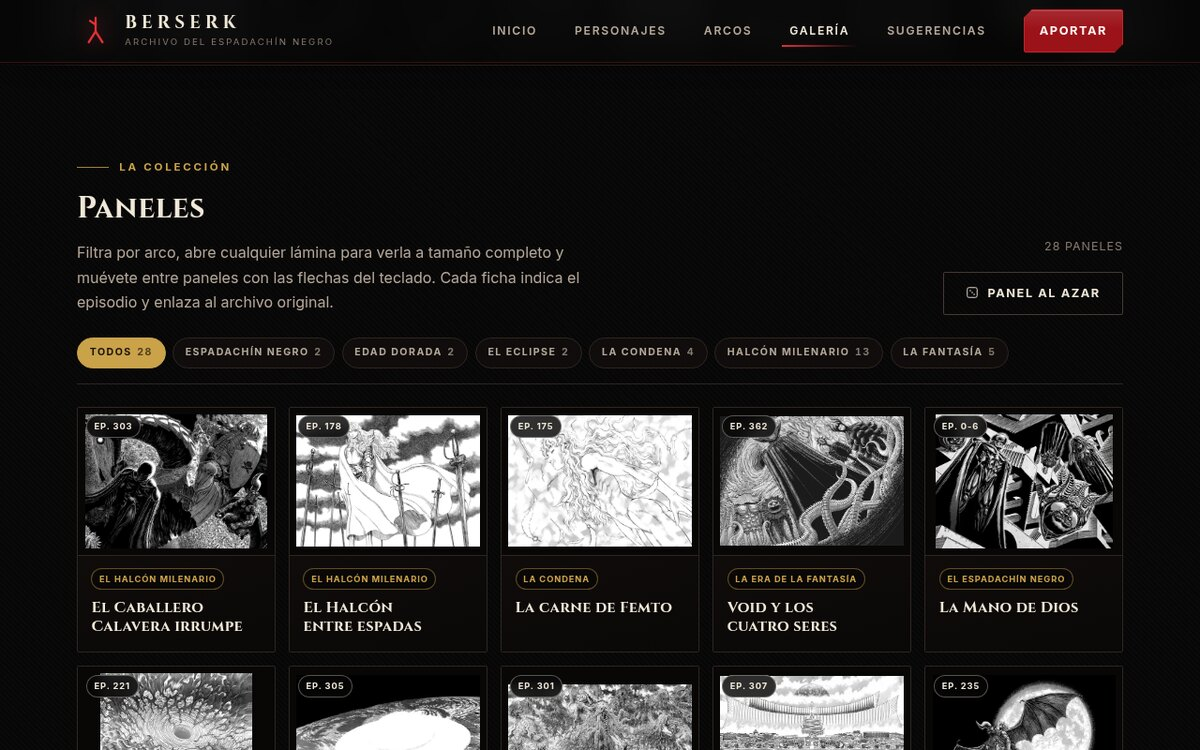
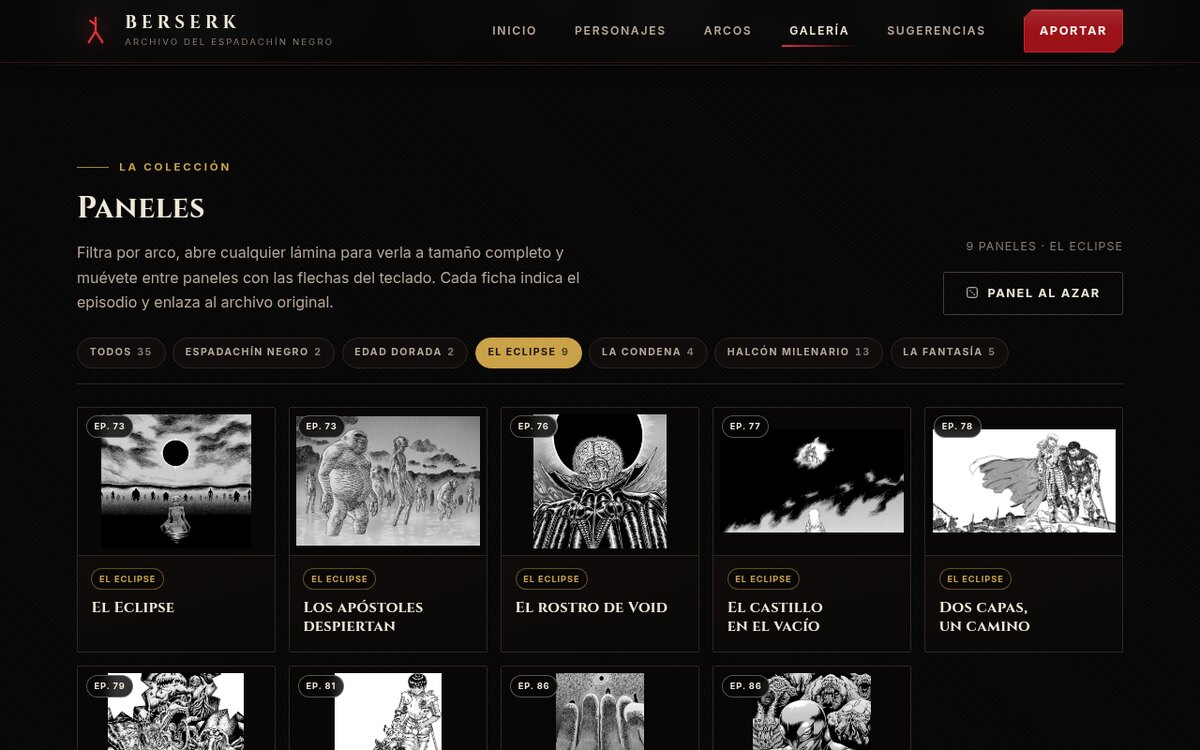
Añadir siete paneles del Eclipse a la galería
- Suma planos generales de los episodios 73, 76, 77, 79, 81 y 86: los
  apóstoles, el rostro de Void, el castillo en el vacío, el festín, la
  muerte de Judeau, la Mano de Dios al completo y Femto
- Agrupa los nueve paneles del arco en orden cronológico
- Genera las versiones WebP de 1100 px y las miniaturas de 520 px
- Actualiza contadores, reparto por arco y capturas del README (28 → 35)

diff --git a/assets/js/paneles.js b/assets/js/paneles.js
@@ -252,6 +252,102 @@ window.PANELES = {
       fuente: "https://berserk.fandom.com/wiki/File:Manga_E73_Eclipse_Invoked.png"
     },
     {
+      id: "apostoles-reunion",
+      titulo: "Los apóstoles despiertan",
+      episodio: "73",
+      arco: "eclipse",
+      archivo: "assets/img/paneles/apostoles-reunion",
+      ancho: 1032,
+      alto: 728,
+      alt: "Una multitud de apóstoles desnudos y deformes avanza entre la niebla sobre un suelo inundado.",
+      descripcion: "Los apóstoles convocados por el Eclipse emergen de la niebla. Miura da a cada cuerpo un tramado distinto —piel, pliegues, costillas— y deja que el horizonte se pierda en gris: no hay un protagonista, solo la masa.",
+      fuente: "https://berserk.fandom.com/wiki/File:Manga_E73_Apostles.png"
+    },
+    {
+      id: "void-rostro",
+      titulo: "El rostro de Void",
+      episodio: "76",
+      arco: "eclipse",
+      archivo: "assets/img/paneles/void-rostro",
+      ancho: 700,
+      alto: 700,
+      alt: "Primer plano de Void: un cerebro expuesto y un rostro óseo recortados sobre un sol negro.",
+      descripcion: "Void en primer plano: el cerebro al descubierto, el rostro óseo y el sol negro como halo. Uno de los diseños más perturbadores de Miura, dibujado con una precisión casi anatómica.",
+      fuente: "https://berserk.fandom.com/wiki/File:Manga_E76_Void.png"
+    },
+    {
+      id: "castillo-vacio",
+      titulo: "El castillo en el vacío",
+      episodio: "77",
+      arco: "eclipse",
+      archivo: "assets/img/paneles/castillo-vacio",
+      ancho: 1081,
+      alto: 609,
+      alt: "Un castillo minúsculo flota en un cielo negro mientras Griffith lo contempla de espaldas.",
+      descripcion: "Griffith contempla un castillo suspendido en un cielo casi por completo negro. La escala la marcan dos manchas blancas —la figura y el edificio lejano— sobre el vacío: el sueño del Halcón reducido a un punto.",
+      fuente: "https://berserk.fandom.com/wiki/File:Manga_E77_Castle.png"
+    },
+    {
+      id: "companerismo",
+      titulo: "Dos capas, un camino",
+      episodio: "78",
+      arco: "eclipse",
+      archivo: "assets/img/paneles/companerismo",
+      ancho: 1100,
+      alto: 619,
+      alt: "Guts y Griffith caminando juntos, con las capas ocupando el tercio inferior de la imagen.",
+      descripcion: "Guts y Griffith caminando juntos, con las capas ocupando el tercio inferior. Una imagen casi vacía, de gran superficie blanca, que resume la Edad Dorada antes de la caída.",
+      fuente: "https://berserk.fandom.com/wiki/File:Manga_E78_Camaraderie.png"
+    },
+    {
+      id: "festin-apostoles",
+      titulo: "El festín de los apóstoles",
+      episodio: "79",
+      arco: "eclipse",
+      archivo: "assets/img/paneles/festin-apostoles",
+      ancho: 1037,
+      alto: 1024,
+      alt: "Masa de apóstoles con bocas abiertas y ojos múltiples que se amontonan hasta llenar el panel.",
+      descripcion: "El festín: apóstoles amontonados, bocas abiertas y ojos por todas partes. El panel no tiene centro ni horizonte; es una textura continua de dientes y carne que se lee casi como un grabado abstracto.",
+      fuente: "https://berserk.fandom.com/wiki/File:Manga_E79_Feast.png"
+    },
+    {
+      id: "judeau-muere",
+      titulo: "La muerte de Judeau",
+      episodio: "81",
+      arco: "eclipse",
+      archivo: "assets/img/paneles/judeau-muere",
+      ancho: 878,
+      alto: 1100,
+      alt: "Guts sostiene el cuerpo malherido de Judeau en brazos, sobre un fondo blanco vacío.",
+      descripcion: "Judeau muere en brazos de Guts. Todo el peso de la escena recae en el blanco del fondo y en las manos: sin tramado, sin paisaje y sin multitud. El silencio que queda después del Eclipse.",
+      fuente: "https://berserk.fandom.com/wiki/File:Manga_E81_Judeau_Dies.png"
+    },
+    {
+      id: "mano-dios-completa",
+      titulo: "Cinco columnas bajo el sol negro",
+      episodio: "86",
+      arco: "eclipse",
+      archivo: "assets/img/paneles/mano-dios-completa",
+      ancho: 723,
+      alto: 1100,
+      alt: "Los cinco miembros de la Mano de Dios, enormes y encapuchados, se alzan como columnas ante un sol negro mientras Guts los observa desde el suelo.",
+      descripcion: "Los cinco miembros de la Mano de Dios vistos desde el suelo, convertidos en columnas gigantes bajo el sol negro. Guts y Griffith quedan reducidos a dos siluetas mínimas: el encuadre mide el abismo entre lo humano y lo divino.",
+      fuente: "https://berserk.fandom.com/wiki/File:Manga_E86_God_Hand_Complete.png"
+    },
+    {
+      id: "femto-senor",
+      titulo: "Femto, señor del Eclipse",
+      episodio: "86",
+      arco: "eclipse",
+      archivo: "assets/img/paneles/femto-senor",
+      ancho: 969,
+      alto: 1100,
+      alt: "Femto, con el casco negro y las alas plegadas, rodeado de rostros demoníacos que lo adoran.",
+      descripcion: "Femto recién nacido como miembro de la Mano de Dios, con el casco negro y las alas plegadas, rodeado de rostros que lo adoran. El brillo del casco está resuelto con blanco puro sobre negro absoluto.",
+      fuente: "https://berserk.fandom.com/wiki/File:Manga_E86_Femto.png"
+    },
+    {
       id: "conrad",
       titulo: "Conrad se manifiesta",
       episodio: "306",
@@ -298,18 +394,6 @@ window.PANELES = {
       alt: "Colina de beherits con rostros humanos, cada uno con ojos y boca propios.",
       descripcion: "El Huevo del Mundo Perfecto: una colina de beherits con rostros humanos. Cada beherit tiene ojos, boca y expresión propia, y el conjunto produce vértigo.",
       fuente: "https://berserk.fandom.com/wiki/File:Manga_E162.png"
-    },
-    {
-      id: "companerismo",
-      titulo: "Dos capas, un camino",
-      episodio: "78",
-      arco: "eclipse",
-      archivo: "assets/img/paneles/companerismo",
-      ancho: 1100,
-      alto: 619,
-      alt: "Guts y Griffith caminando juntos, con las capas ocupando el tercio inferior de la imagen.",
-      descripcion: "Guts y Griffith caminando juntos, con las capas ocupando el tercio inferior. Una imagen casi vacía, de gran superficie blanca, que resume la Edad Dorada antes de la caída.",
-      fuente: "https://berserk.fandom.com/wiki/File:Manga_E78_Camaraderie.png"
     },
     {
       id: "griffith-victorioso",

diff --git a/galeria.html b/galeria.html
@@ -4,7 +4,7 @@
   <meta charset="utf-8">
   <meta name="viewport" content="width=device-width, initial-scale=1">
   <title>Galería de paneles · Archivo del Espadachín Negro</title>
-  <meta name="description" content="Galería de 28 paneles del manga de Berserk elegidos por su dibujo: tramado, composición y escenas clave de Kentaro Miura, con filtros por arco y visor ampliado.">
+  <meta name="description" content="Galería de 35 paneles del manga de Berserk elegidos por su dibujo: tramado, composición y escenas clave de Kentaro Miura, con filtros por arco y visor ampliado.">
   <meta name="author" content="Luis · Actividad 3.4.2">
   <meta name="theme-color" content="#070606">
   <link rel="icon" href="assets/img/favicon.svg" type="image/svg+xml">
@@ -127,7 +127,7 @@
             </p>
           </div>
           <div class="col-12 col-lg-4 text-lg-end">
-            <p class="emi-contador mb-3" id="contadorPaneles" role="status" aria-live="polite">28 paneles</p>
+            <p class="emi-contador mb-3" id="contadorPaneles" role="status" aria-live="polite">35 paneles</p>
             <button class="btn btn-fantasma btn-sm" type="button" id="botonAleatorioDos">
               <svg class="emi-icono" viewBox="0 0 24 24" width="14" height="14" aria-hidden="true" focusable="false"><rect x="3" y="3" width="18" height="18" rx="3" fill="none" stroke="currentColor" stroke-width="1.6"/><circle cx="8.5" cy="8.5" r="1.3" fill="currentColor"/><circle cx="15.5" cy="15.5" r="1.3" fill="currentColor"/><circle cx="12" cy="12" r="1.3" fill="currentColor"/></svg> Panel al azar
             </button>

diff --git a/index.html b/index.html
@@ -95,7 +95,7 @@
               <ul class="emi-chips" aria-label="Datos del proyecto">
                 <li class="emi-chip">30 personajes</li>
                 <li class="emi-chip">6 arcos</li>
-                <li class="emi-chip">28 paneles</li>
+                <li class="emi-chip">35 paneles</li>
                 <li class="emi-chip">Desde 320 px</li>
                 <li class="emi-chip">Accesibilidad AA</li>
               </ul>

diff --git a/README.md b/README.md
@@ -2,11 +2,11 @@
 
 <img src="assets/readme/banner.svg" alt="Archivo del Espadachín Negro — wiki temática de Berserk maquetada con Bootstrap 5.3.3" width="100%"/>
 
-**Wiki temática de _Berserk_** — 30 fichas de personajes, seis arcos y **28 paneles del manga**
+**Wiki temática de _Berserk_** — 30 fichas de personajes, seis arcos y **35 paneles del manga**
 elegidos por su dibujo, en un catálogo que se filtra, se ordena y se lee igual de bien en un móvil
 que en un monitor.
 
-<img src="https://readme-typing-svg.demolab.com?font=Fira+Code&weight=600&size=21&duration=3200&pause=900&color=E0B06A&center=true&vCenter=true&width=740&lines=30+fichas+de+personaje%3B6+arcos+cronol%C3%B3gicos%3B28+paneles+de+Miura%3BBootstrap+5.3.3+sin+compilaci%C3%B3n%3BAccesible+AA+desde+320+px" alt="30 fichas, 6 arcos, 28 paneles de Miura, Bootstrap 5.3.3 sin compilación, accesible desde 320 px"/>
+<img src="https://readme-typing-svg.demolab.com?font=Fira+Code&weight=600&size=21&duration=3200&pause=900&color=E0B06A&center=true&vCenter=true&width=740&lines=30+fichas+de+personaje%3B6+arcos+cronol%C3%B3gicos%3B35+paneles+de+Miura%3BBootstrap+5.3.3+sin+compilaci%C3%B3n%3BAccesible+AA+desde+320+px" alt="30 fichas, 6 arcos, 35 paneles de Miura, Bootstrap 5.3.3 sin compilación, accesible desde 320 px"/>
 
 ![HTML5](https://img.shields.io/badge/HTML5-E34F26?style=for-the-badge&logo=html5&logoColor=white)
 ![CSS3](https://img.shields.io/badge/CSS3-1572B6?style=for-the-badge&logo=css3&logoColor=white)
@@ -35,7 +35,7 @@ propia que solo aporta el tema visual, y un único archivo de datos que alimenta
 
 <div align="center">
 
-| 📚 **30 fichas** | 🕰 **6 arcos** | 🖼 **28 paneles** | 📦 **0 dependencias** |
+| 📚 **30 fichas** | 🕰 **6 arcos** | 🖼 **35 paneles** | 📦 **0 dependencias** |
 | :--: | :--: | :--: | :--: |
 | Retrato, historia, habilidades y arcos | Del Espadachín Negro a la Era de la Fantasía | Galería con visor y filtros por arco | Solo el bundle de Bootstrap, servido en local |
 | *Un archivo `datos.js` los alimenta* | *Cronología con fichas en modal* | *Un archivo `paneles.js` los ordena* | *Abre con doble clic* |
@@ -176,7 +176,7 @@ Cada ficha apunta a [Berserk Wiki](https://berserk.fandom.com/wiki/Berserk_Wiki)
 `target="_blank"` y `rel="noopener noreferrer"`. Esos enlaces aparecen en la tarjeta, en el modal,
 en el carrusel, en el bloque de fuentes externas y en el pie de las cinco páginas.
 
-### 🖼 Galería de 28 paneles
+### 🖼 Galería de 35 paneles
 
 Una página aparte dedicada solo al dibujo: viñetas y dobles páginas de Kentaro Miura con filtros por
 arco, rejilla de tarjetas iguales, visor ampliado y enlaces directos. Se detalla más abajo, en
@@ -187,7 +187,7 @@ arco, rejilla de tarjetas iguales, visor ampliado y enlaces directos. Se detalla
 <a id="galeria"></a>
 ## 🖼 Galería de paneles
 
-`galeria.html` es una sección aparte, dedicada únicamente al dibujo. Reúne **28 viñetas y dobles
+`galeria.html` es una sección aparte, dedicada únicamente al dibujo. Reúne **35 viñetas y dobles
 páginas** del manga elegidas por su tramado, su composición y su uso del negro, cada una con su
 episodio, su arco y un comentario breve sobre cómo está resuelta.
 
@@ -195,12 +195,12 @@ episodio, su arco y un comentario breve sobre cómo está resuelta.
 
 | Portada de la galería | Rejilla filtrada por arcos |
 | :--: | :--: |
-| <img src="assets/readme/preview-galeria.jpg" alt="Portada de la galería con una doble página de Femto y el Caballero Calavera" width="100%"/> | <img src="assets/readme/preview-rejilla.jpg" alt="Rejilla de paneles en cinco columnas con filtros por arco" width="100%"/> |
-| **Lámina de apertura** con zoom lento y cinta de miniaturas | **Tarjetas pequeñas de 6 → 1 columnas** con filtros y contador en vivo |
+| <img src="assets/readme/preview-galeria.jpg" alt="Portada de la galería con una doble página de Femto y el Caballero Calavera" width="100%"/> | <img src="assets/readme/preview-rejilla.jpg" alt="Rejilla de paneles filtrada por el arco del Eclipse en cinco columnas" width="100%"/> |
+| **Lámina de apertura** con zoom lento y cinta de miniaturas | **Tarjetas pequeñas de 6 → 1 columnas**, aquí filtradas por El Eclipse |
 
 <img src="assets/readme/preview-visor.jpg" alt="Panel abierto en el visor ampliado con su descripción y el enlace a la fuente" width="92%"/>
 
-**Visor ampliado** — doble página a tamaño completo, navegación anterior/siguiente, contador y
+**Visor ampliado** — lámina a tamaño completo, navegación anterior/siguiente, contador y
 enlace al archivo original de la wiki.
 
 </div>
@@ -209,10 +209,10 @@ enlace al archivo original de la wiki.
 
 | Pieza | Comportamiento |
 |---|---|
-| 🗃 **Datos** | `assets/js/paneles.js` guarda los 28 paneles: id, título, episodio, arco, medidas, texto alternativo, comentario y fuente |
+| 🗃 **Datos** | `assets/js/paneles.js` guarda los 35 paneles: id, título, episodio, arco, medidas, texto alternativo, comentario y fuente |
 | 🏷 **Filtros** | Un botón por arco con su recuento; «Todos» vuelve a la colección completa y el estado vacío ofrece limpiar el filtro |
 | 🧱 **Rejilla uniforme** | `grid` de 6 a 1 columnas; tarjetas pequeñas e idénticas (marco 4:3 con margen interior) y el panel entra completo, sin recortes |
-| 🔍 **Visor** | Modal de Bootstrap con la imagen a tamaño completo, anterior y siguiente, contador `n / 28` y enlace al archivo de origen |
+| 🔍 **Visor** | Modal de Bootstrap con la imagen a tamaño completo, anterior y siguiente, contador `n / 35` y enlace al archivo de origen |
 | ⌨ **Teclado** | `←` y `→` cambian de panel con el visor abierto; `Esc` lo cierra; el foco queda atrapado en el modal |
 | 🔗 **Enlace directo** | `galeria.html?panel=eclipse` abre esa lámina al cargar; al cerrar, la URL se limpia sola |
 | 🎲 **Panel al azar** | Dos botones —portada y rejilla— eligen una lámina al azar dentro del filtro activo |
@@ -225,14 +225,14 @@ enlace al archivo original de la wiki.
 | :-- | :--: |
 | El Espadachín Negro | 2 |
 | La Edad Dorada | 2 |
-| El Eclipse | 2 |
+| El Eclipse | 9 |
 | La Condena | 4 |
 | El Halcón Milenario | 13 |
 | La Era de la Fantasía | 5 |
-| **Total** | **28** |
+| **Total** | **35** |
 
 Las imágenes se sirven en WebP a 1100 px (versión completa) y 520 px (miniatura `-min`), con
-`srcset` y `sizes` para que el navegador elija. El conjunto pesa unos 7,6 MB, y las miniaturas se
+`srcset` y `sizes` para que el navegador elija. El conjunto pesa unos 9,7 MB, y las miniaturas se
 cargan con `loading="lazy"`.
 
 > **Derechos.** Los paneles pertenecen a **Kentaro Miura** y a **Hakusensha**. Se muestran con fines
@@ -366,13 +366,13 @@ y el tema oscuro nativo con `data-bs-theme="dark"`.
 │   │   ├── comun.js              Navegación, año y animaciones de entrada
 │   │   ├── catalogo.js           Filtros, tarjetas, paginación, ficha y panel
 │   │   ├── arcos.js              Modal de arcos
-│   │   ├── paneles.js            Los 28 paneles de la galería (fuente única)
+│   │   ├── paneles.js            Los 35 paneles de la galería (fuente única)
 │   │   ├── galeria.js            Filtros, rejilla, visor y enlace directo
 │   │   └── formulario.js         Validación, contador y confirmación
 │   ├── img/
 │   │   ├── personajes/           30 retratos (400 px de ancho)
 │   │   ├── arcos/                Emblemas vectoriales de los seis arcos
-│   │   ├── paneles/              28 paneles en WebP + 28 miniaturas `-min`
+│   │   ├── paneles/              35 paneles en WebP + 35 miniaturas `-min`
 │   │   ├── heroe.svg             Escena de portada
 │   │   ├── marca-sacrificio.svg  Marca de sacrificio
 │   │   └── favicon.svg
@@ -490,7 +490,7 @@ comportamiento del sitio sin las redirecciones de Vercel.
 - [x] Formulario validado con resumen
 - [x] Panel de componentes Bootstrap con datos en vivo
 - [x] Enlaces externos a la fuente de cada ficha
-- [x] Galería de 28 paneles con filtros, visor y enlaces directos
+- [x] Galería de 35 paneles con filtros, visor y enlaces directos
 - [x] Despliegue en Vercel y GitHub Pages
 - [ ] Buscar sin JavaScript con página de resultados precargada
 - [ ] Modo claro con `data-bs-theme="light"`
